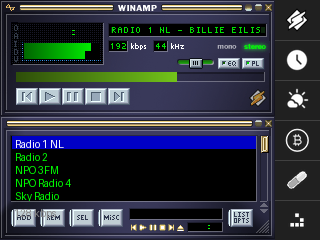
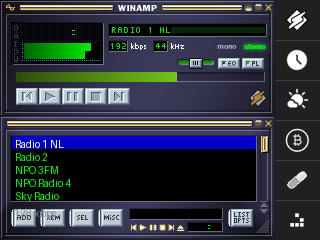
feat(TASK-252): WebRadio title in shared LED-font marquee
Drop WebRadio's plain-GFX-font _drawTitleZone and reuse the authentic Winamp LED
bitmap font, consistent with Spotify's title. Add public WinampDisplay::setTitle()
(redraw-on-change + reset-scroll + hold — extracted op-for-op from
printCurrentlyPlayingToScreen, which now calls it) and tickMarquee(). WebRadio's
_drawTitleZone composes the station/state string and calls setTitle(); tick()
drives tickMarquee() so long station names scroll. SKIN_GLYPH folds
lowercase->uppercase, so no manual uppercasing.

Developed via the host mock (already rendered the LED-font title); reconciled the
mock content to station-name-only. Self-verified: "RADIO 1 NL" in the LED font,
kbps/kHz badge clear. 5/5 gates; DUT sign-off owed.

Surfaced TASK-254: the separate ICY line collides with the kbps/kHz badge
(pre-existing; recommend folding ICY into a combined marquee — user UX call).

Changed region(s): [[0.5312, 0.0875, 0.8125, 0.1458]]

diff --git a/app/src/webRadioApp.h b/app/src/webRadioApp.h
@@ -169,6 +169,9 @@ public:
     }
 
     void tick() override {
+        // TASK-252: scroll the LED-font title marquee (long station names).
+        winampDisplay.tickMarquee();
+
         // TASK-234 (ADR-045): process a deferred retry / auto-skip from a prior
         // tick's playback failure. Done here (not inline at the failure site) so
         // the connecttohost() blocking call never recurses — one attempt per tick.
@@ -685,28 +688,25 @@ private:
     }
 
     void _drawTitleZone() {
-        tft.fillRect(TITLE_X, TITLE_Y, TITLE_W, TITLE_H, TFT_BLACK);
-        tft.setTextColor(0x07E0U, TFT_BLACK);
+        // TASK-252: reuse the shared Winamp LED-font marquee (consistent with
+        // Spotify's title, scrolls long station names) instead of the plain GFX
+        // font. setTitle() redraws only on change; tick() drives the scroll.
+        const char* t;
         if (_pendingStations) {
-            tft.drawString("Loading...", TITLE_X, TITLE_Y, 1);
+            t = "Loading...";
         } else if (_stationCount > 0 && _currentIdx < _stationCount) {
             switch (_state) {
-                case WRPlayState::CONNECTING:
-                    tft.drawString("Connecting...", TITLE_X, TITLE_Y, 1); break;
-                case WRPlayState::ERROR_UNREACHABLE:
-                    tft.drawString("Station unreachable", TITLE_X, TITLE_Y, 1); break;
-                case WRPlayState::ERROR_STALL:
-                    tft.drawString("Stream stalled", TITLE_X, TITLE_Y, 1); break;
-                case WRPlayState::ERROR_WIFI:
-                    tft.drawString("WiFi lost", TITLE_X, TITLE_Y, 1); break;
-                case WRPlayState::ERROR_BLOCKED:
-                    tft.drawString("Station blocked", TITLE_X, TITLE_Y, 1); break;
-                default:
-                    tft.drawString(_stations[_currentIdx].name, TITLE_X, TITLE_Y, 1); break;
+                case WRPlayState::CONNECTING:        t = "Connecting..."; break;
+                case WRPlayState::ERROR_UNREACHABLE: t = "Station unreachable"; break;
+                case WRPlayState::ERROR_STALL:       t = "Stream stalled"; break;
+                case WRPlayState::ERROR_WIFI:        t = "WiFi lost"; break;
+                case WRPlayState::ERROR_BLOCKED:     t = "Station blocked"; break;
+                default:                             t = _stations[_currentIdx].name; break;
             }
         } else {
-            tft.drawString("No stations", TITLE_X, TITLE_Y, 1);
+            t = "No stations";
         }
+        winampDisplay.setTitle(t);
     }
 
     void _drawIcyLine() {

diff --git a/app/src/winamp/winampDisplay.h b/app/src/winamp/winampDisplay.h
@@ -192,6 +192,22 @@ public:
     tft.endWrite();
   }
 
+  // TASK-252 — set the marquee title (shared: Spotify track + WebRadio station/
+  // state). Redraws only on change; resets scroll + holds before scrolling. The
+  // baked SKIN_GLYPH folds lowercase→uppercase, so callers needn't uppercase.
+  void setTitle(const char* text) {
+    if (strcmp(lastTitle, text) == 0) return;
+    strncpy(lastTitle, text, sizeof(lastTitle) - 1);
+    lastTitle[sizeof(lastTitle) - 1] = '\0';
+    titleScrollOffset   = 0;
+    titleScrollDeadline = millis() + TITLE_SCROLL_HOLD_MS;
+    drawTitleText(0);
+  }
+
+  // TASK-252 — drive the title marquee scroll (WebRadio calls from its tick();
+  // Spotify drives it internally via _tickMarquee in its own tick/input paths).
+  void tickMarquee() { _tickMarquee(); }
+
   // TASK-041 / ADR-014 A1.5 — VOLUME slider renderer.
   // percent: 0..100 → KEYFRAME_0..KEYFRAME_4; <0 → KEYFRAME_NONE.
   // Always blits + updates the cache; caller dedup not required (the
@@ -283,13 +299,7 @@ public:
     } else {
       snprintf(composed, sizeof(composed), "%s   ", title);
     }
-    if (strcmp(lastTitle, composed) != 0) {
-      strncpy(lastTitle, composed, sizeof(lastTitle) - 1);
-      lastTitle[sizeof(lastTitle) - 1] = '\0';
-      titleScrollOffset = 0;
-      titleScrollDeadline = millis() + TITLE_SCROLL_HOLD_MS;
-      drawTitleText(0);
-    }
+    setTitle(composed);  // TASK-252: shared title primitive (redraw-on-change + scroll)
     currentStatusUv = PP_PLAY;
     drawStatusIndicator(currentStatusUv);
   }

diff --git a/app/tools/preview_webradio.py b/app/tools/preview_webradio.py
@@ -266,8 +266,10 @@ def render(state: str, skin_path: str, frame: int = 0) -> Image.Image:
         t = frame / 30.0
         l_lvl = max(0.0, 0.55 + 0.35 * math.sin(t * 2.7))
         r_lvl = max(0.0, 0.50 + 0.35 * math.sin(t * 1.9 + 1.1))
-        # Combined scroll string mirrors firmware lastTitle: name + " - " + ICY + gap
-        _draw_title(img, f"{STATIONS[0]} - {ICY_TITLE}")
+        # Firmware (TASK-252): LED-font title = station name (marquee). The ICY
+        # StreamTitle display is unsettled (its y=36 line collides with the baked
+        # kbps/kHz badge) — see TASK-254; omitted here pending that decision.
+        _draw_title(img, STATIONS[0])
         _draw_buffer_bar(img, 0.65)
         _draw_vu(draw, l_lvl, r_lvl)
         _draw_station_list(img, 0, state)

diff --git a/docs/project/tasks.md b/docs/project/tasks.md
@@ -3159,7 +3159,32 @@ scrolling marquee for long station names (currently truncated), −~24 lines. Re
 `setTitle()`/`lastTitle` setter and WebRadio driving the scroll offset (or 0 for static); the
 connecting/error strings render in the LED font too. Caveat: `TITLE_H=6` is tight — verify the state
 strings fit. Prototype in `preview_webradio.py` first (it already uses the real `composite_text`).
-**Priority:** P3 — visual consistency · **Status:** open · **Opened:** 2026-06-26 · **Owner:** Developer + Architect · **Deps:** —
+
+**Implemented 2026-06-26 (mock-verified; DUT sign-off owed).** Added public `WinampDisplay::setTitle()`
+(redraw-on-change + reset-scroll + hold, extracted op-for-op from `printCurrentlyPlayingToScreen`,
+which now calls it) and `tickMarquee()`. WebRadio's `_drawTitleZone` now composes the station/state
+string and calls `setTitle()`; `tick()` drives `tickMarquee()` for long-name scroll. The baked
+`SKIN_GLYPH` folds lowercase→uppercase, so no manual uppercasing. Mock already rendered the LED-font
+title; reconciled its content to station-name-only (it had combined "station - ICY"). Self-verified in
+host: "RADIO 1 NL" renders in the authentic LED font, kbps/kHz badge clear. 5/5 gates. **Surfaced
+TASK-254** (the separate ICY line collides with the kbps/kHz badge — a pre-existing issue, out of this
+task's scope).
+**Priority:** P3 — visual consistency · **Status:** implemented — mock-verified 2026-06-26; **DUT sign-off owed** · **Opened:** 2026-06-26 · **Owner:** Developer + Architect · **Deps:** —
+
+---
+
+### TASK-254 — WebRadio ICY StreamTitle line collides with the kbps/kHz badge
+
+Surfaced while reconciling the mock for TASK-252. `_drawIcyLine()` draws the ICY StreamTitle as a
+separate white GFX line at `WR_ICY_Y=36`, but the baked "192 kbps / 44 kHz / mono-stereo" cluster lives
+in that same row (x≳155), so a non-trivial ICY title overflows into it (and `drawString` isn't clipped
+to `WR_ICY_W`). There is no collision-free space for a full second text line there. **Architect
+recommendation:** fold the ICY into the title as a combined Spotify-style marquee — `setTitle("STATION
+- SONG   ")` recomposed when ICY arrives — and drop the separate `_drawIcyLine` (one scrolling LED line,
+no collision, max Spotify consistency; this is what the mock originally assumed). Alternative: clip ICY
+to the ~44px gap before the badge (cramped). User UX call before implementing. The mock omits the ICY
+line pending this decision.
+**Priority:** P3 — visual/layout · **Status:** open · **Opened:** 2026-06-26 · **Owner:** Architect + Developer (user UX call) · **Deps:** TASK-252 (done)
 
 ---
 
